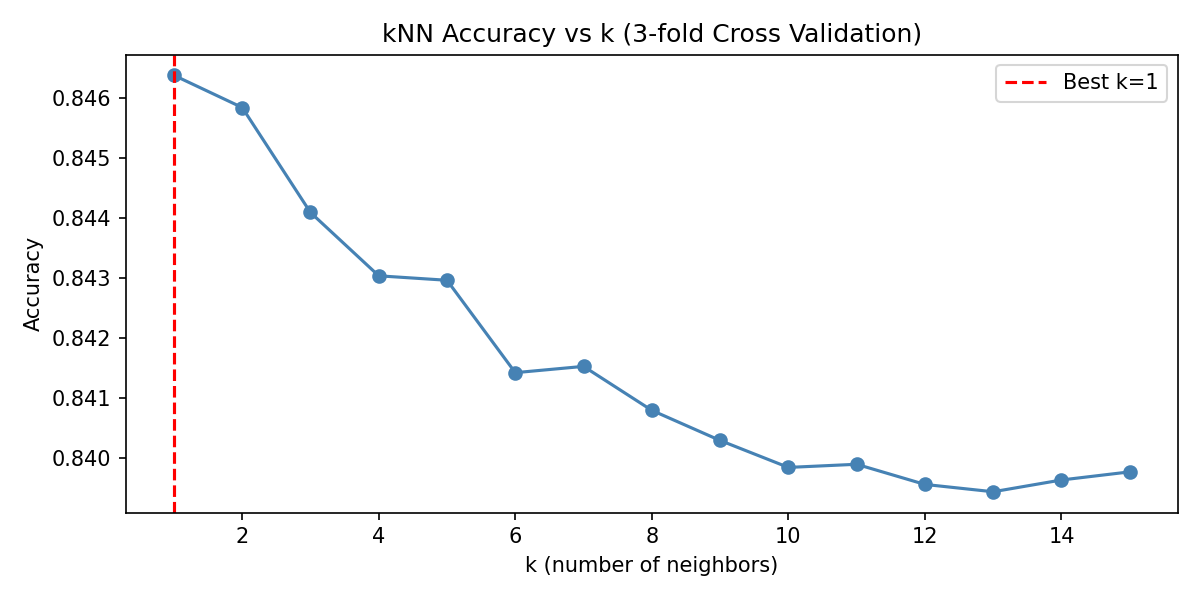
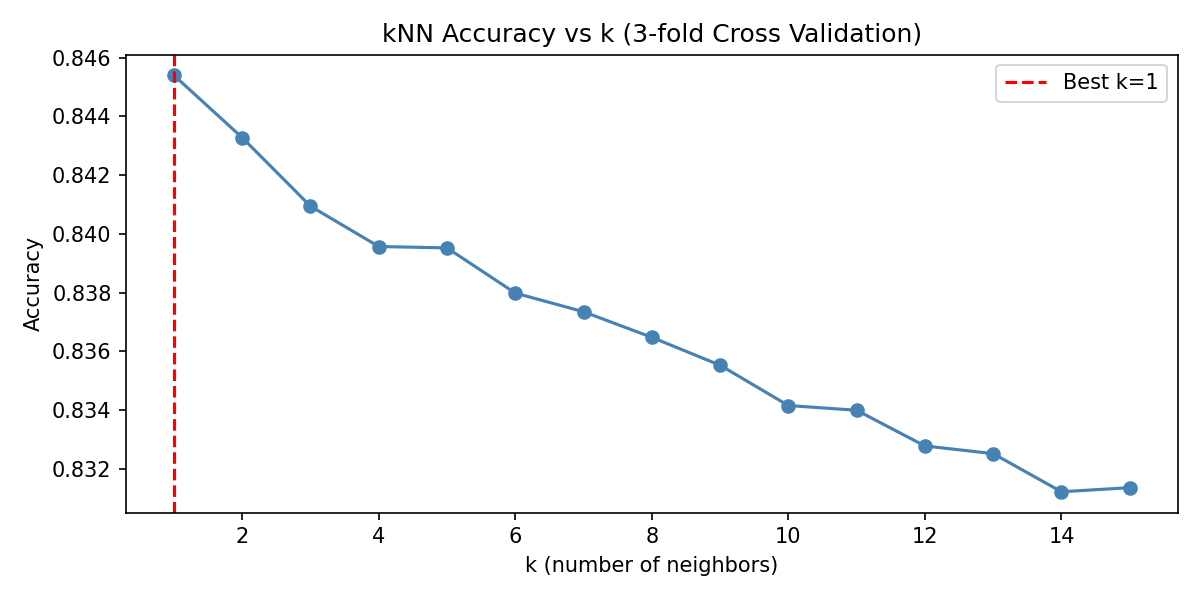
Final kNN with all 4 outputs, 43 features, proper scaling

diff --git a/knn.py b/knn.py
@@ -15,27 +15,38 @@ df = pd.read_parquet("data/processed/ciciot2022.parquet")
 print(f"Dataset shape: {df.shape}")
 
 # ─────────────────────────────────────────
-# 2. SEPARATE FEATURES AND TARGET
+# 2. FEATURE SELECTION
 # ─────────────────────────────────────────
-# Drop target, metadata, and IP columns (IP = data leakage)
-drop_cols = [
-    'device',           # target
-    'global_category',  # metadata
-    'interaction_type', # metadata
-    'command',          # metadata
-    'epoch_timestamp',  # timestamp
-    'ip_dst_new',       # IP leakage
-    'most_freq_d_ip',   # IP leakage
+X_FEATURES = [
+    'L4_tcp', 'L4_udp', 'L7_http', 'L7_https', 'port_class_src',
+    'port_class_dst', 'pck_size', 'ethernet_frame_size', 'ttl',
+    'total_length', 'protocol', 'source_port', 'dest_port', 'DNS_count',
+    'NTP_count', 'ARP_count', 'cnt', 'L3_ip_dst_count', 'most_freq_prot',
+    'most_freq_sport', 'most_freq_dport', 'sum_et', 'min_et', 'max_et',
+    'med_et', 'average_et', 'skew_et', 'kurt_et', 'var', 'q3', 'q1', 'iqr',
+    'sum_e', 'min_e', 'max_e', 'med', 'average', 'skew_e', 'kurt_e',
+    'var_e', 'q3_e', 'q1_e', 'iqr_e'
 ]
 
-y = df['device']
-X = df.drop(columns=[c for c in drop_cols if c in df.columns])
+Y_FEATURES = ['global_category', 'device', 'interaction_type', 'command']
+
+# Check for missing columns
+missing = [col for col in X_FEATURES if col not in df.columns]
+if missing:
+    print(f"Warning: Missing features: {missing}")
+    X_FEATURES = [col for col in X_FEATURES if col in df.columns]
 
 print(f"\nDevices in dataset:")
-print(y.value_counts())
+print(df['device'].value_counts())
 
 # ─────────────────────────────────────────
-# 3. HANDLE NON-NUMERIC FEATURES
+# 3. SEPARATE FEATURES AND TARGETS
+# ─────────────────────────────────────────
+X = df[X_FEATURES].copy()
+y = df[Y_FEATURES].copy()
+
+# ─────────────────────────────────────────
+# 4. HANDLE NON-NUMERIC FEATURES
 # ─────────────────────────────────────────
 le = LabelEncoder()
 for col in X.columns:
@@ -45,38 +56,30 @@ for col in X.columns:
     else:
         X[col] = pd.to_numeric(X[col], errors='coerce')
 
+# Encode target columns
+y_encoded = pd.DataFrame()
+target_encoders = {}
+for target in Y_FEATURES:
+    enc = LabelEncoder()
+    y_encoded[target] = enc.fit_transform(y[target].astype(str))
+    target_encoders[target] = enc
+
 # ─────────────────────────────────────────
-# 4. HANDLE MISSING VALUES
+# 5. HANDLE MISSING VALUES
 # ─────────────────────────────────────────
-X = X.dropna(axis=1, how='all')
 X = X.fillna(0)
 
-print(f"\nFeatures after cleaning: {X.shape[1]}")
-
-# ─────────────────────────────────────────
-# 5. REMOVE RARE CLASSES
-# ─────────────────────────────────────────
-min_samples = 3
-class_counts = y.value_counts()
-valid_classes = class_counts[class_counts >= min_samples].index
-removed = class_counts[class_counts < min_samples].index.tolist()
-if removed:
-    print(f"\nRemoving rare classes: {removed}")
-
-mask = y.isin(valid_classes)
-X = X[mask]
-y = y[mask]
-
-print(f"Remaining samples: {len(y)}")
+print(f"\nFeatures: {X.shape[1]}")
+print(f"Samples: {len(X)}")
 
 # ─────────────────────────────────────────
 # 6. TRAIN/TEST SPLIT (before scaling!)
 # ─────────────────────────────────────────
 X_train, X_test, y_train, y_test = train_test_split(
-    X, y,
+    X, y_encoded,
     test_size=0.2,
     random_state=42,
-    stratify=y
+    stratify=y_encoded['device']
 )
 
 print(f"\nTraining samples: {len(X_train)}")
@@ -85,17 +88,14 @@ print(f"Testing samples:  {len(X_test)}")
 # ─────────────────────────────────────────
 # 7. SCALE FEATURES (fit on train only!)
 # ─────────────────────────────────────────
-# CRITICAL: fit scaler on training data only
-# fitting on full dataset leaks test set info into the model
 scaler = StandardScaler()
 X_train_scaled = scaler.fit_transform(X_train)
 X_test_scaled = scaler.transform(X_test)
 
-# Fix any NaN/inf
 X_train_scaled = np.nan_to_num(X_train_scaled, nan=0.0, posinf=0.0, neginf=0.0)
 X_test_scaled = np.nan_to_num(X_test_scaled, nan=0.0, posinf=0.0, neginf=0.0)
 
-# Scale full dataset for cross validation (fit on full is okay for CV since CV handles its own splits)
+# Scale full dataset for cross validation
 scaler_cv = StandardScaler()
 X_all_scaled = scaler_cv.fit_transform(X)
 X_all_scaled = np.nan_to_num(X_all_scaled, nan=0.0, posinf=0.0, neginf=0.0)
@@ -109,7 +109,7 @@ accuracies = []
 
 for k in k_values:
     knn = KNeighborsClassifier(n_neighbors=k, metric='euclidean')
-    scores = cross_val_score(knn, X_all_scaled, y, cv=3, scoring='accuracy')
+    scores = cross_val_score(knn, X_all_scaled, y_encoded['device'], cv=3, scoring='accuracy')
     acc = scores.mean()
     accuracies.append(acc)
     print(f"k={k:2d}  accuracy={acc:.4f}  (+/- {scores.std():.4f})")
@@ -138,27 +138,39 @@ model.fit(X_train_scaled, y_train)
 print(f"\nFinal model trained with k={best_k}")
 
 # ─────────────────────────────────────────
-# 10. EVALUATE ON TEST SET
+# 10. EVALUATE ALL 4 OUTPUTS
 # ─────────────────────────────────────────
 y_pred = model.predict(X_test_scaled)
+y_pred_df = pd.DataFrame(y_pred, columns=Y_FEATURES)
 
-print("\n── Classification Report ──")
-print(classification_report(y_test, y_pred))
+print("\n── Classification Reports for all 4 outputs ──")
+for i, target in enumerate(Y_FEATURES):
+    enc = target_encoders[target]
+    y_test_labels = enc.inverse_transform(y_test[target])
+    y_pred_labels = enc.inverse_transform(y_pred_df[target])
+    print(f"\n{'='*50}")
+    print(f"Target: {target.upper()}")
+    print(f"{'='*50}")
+    print(classification_report(y_test_labels, y_pred_labels))
 
 # ─────────────────────────────────────────
-# 11. CONFUSION MATRIX
+# 11. CONFUSION MATRIX FOR DEVICE
 # ─────────────────────────────────────────
-labels = sorted(y.unique())
-cm = confusion_matrix(y_test, y_pred, labels=labels)
+enc = target_encoders['device']
+y_test_device = enc.inverse_transform(y_test['device'])
+y_pred_device = enc.inverse_transform(y_pred_df['device'])
+
+labels = sorted(enc.classes_)
+cm = confusion_matrix(y_test_device, y_pred_device, labels=labels)
 
 plt.figure(figsize=(14, 12))
 sns.heatmap(cm, annot=True, fmt='d', cmap='Blues',
             xticklabels=labels, yticklabels=labels)
-plt.title(f'kNN Confusion Matrix (k={best_k})')
+plt.title(f'kNN Confusion Matrix - Device (k={best_k})')
 plt.ylabel('Actual Device')
 plt.xlabel('Predicted Device')
 plt.xticks(rotation=45, ha='right')
 plt.tight_layout()
 plt.savefig('knn_confusion_matrix.png', dpi=150)
 plt.close()
-print("Confusion matrix saved as knn_confusion_matrix.png")
+print("\nConfusion matrix saved as knn_confusion_matrix.png")